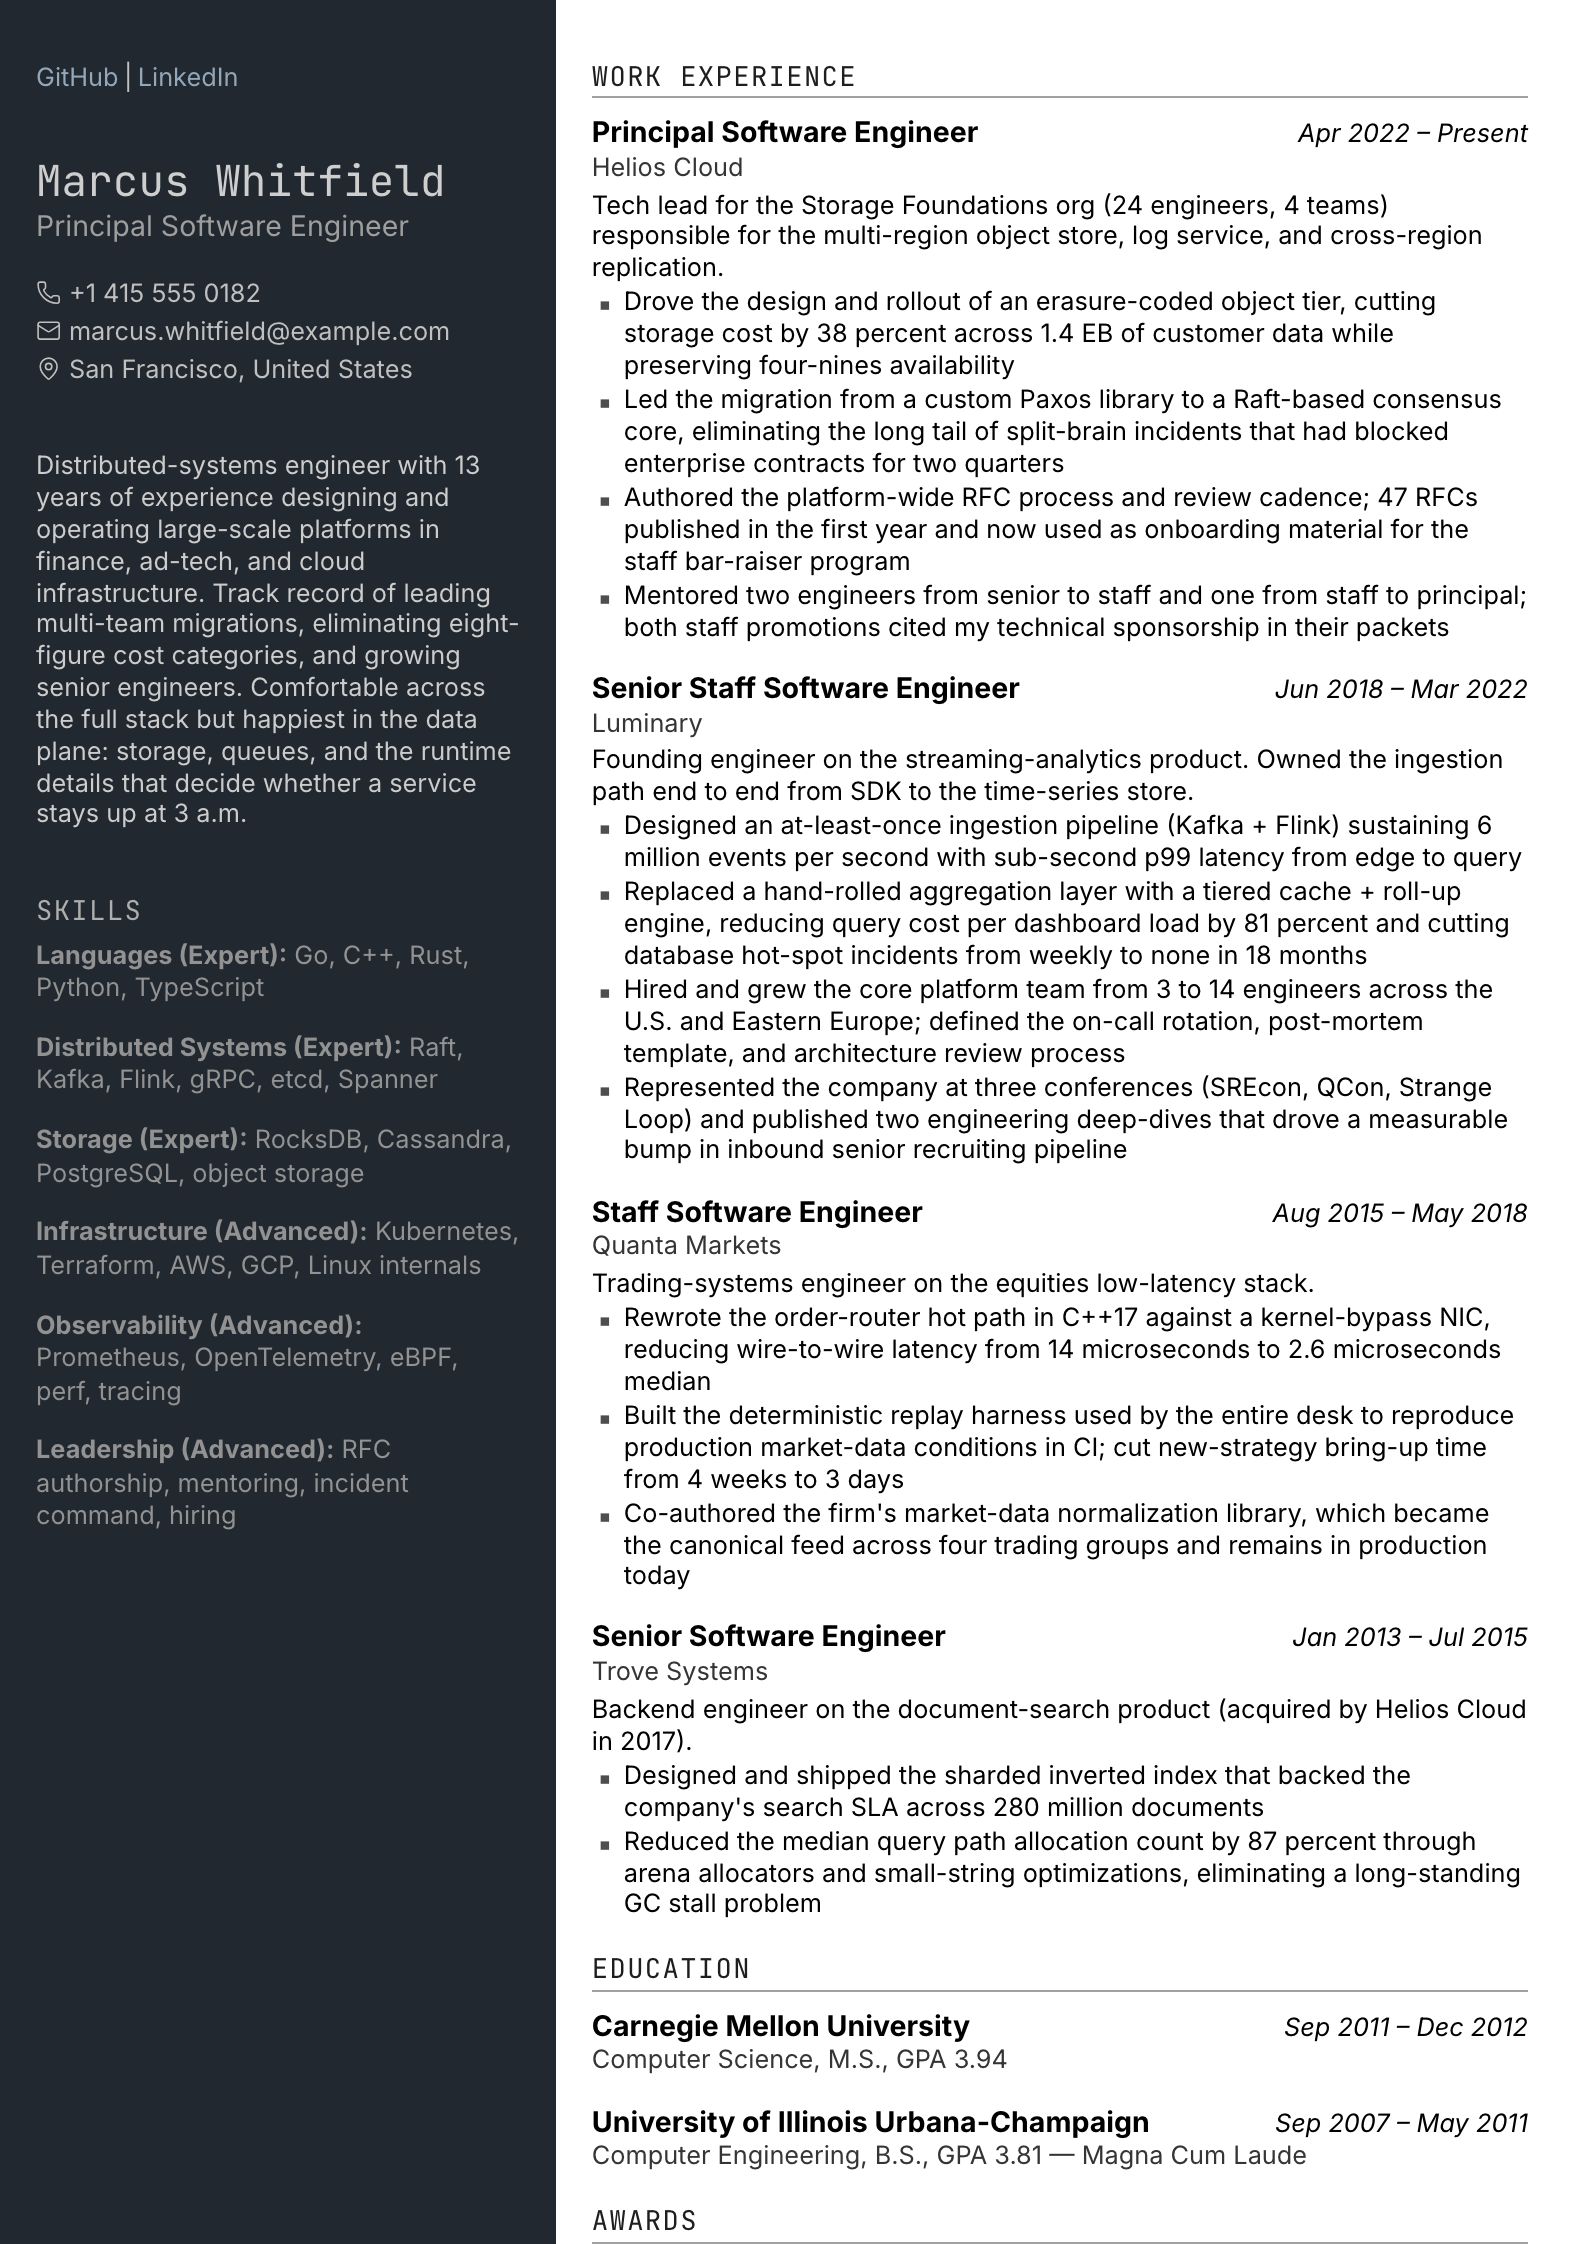
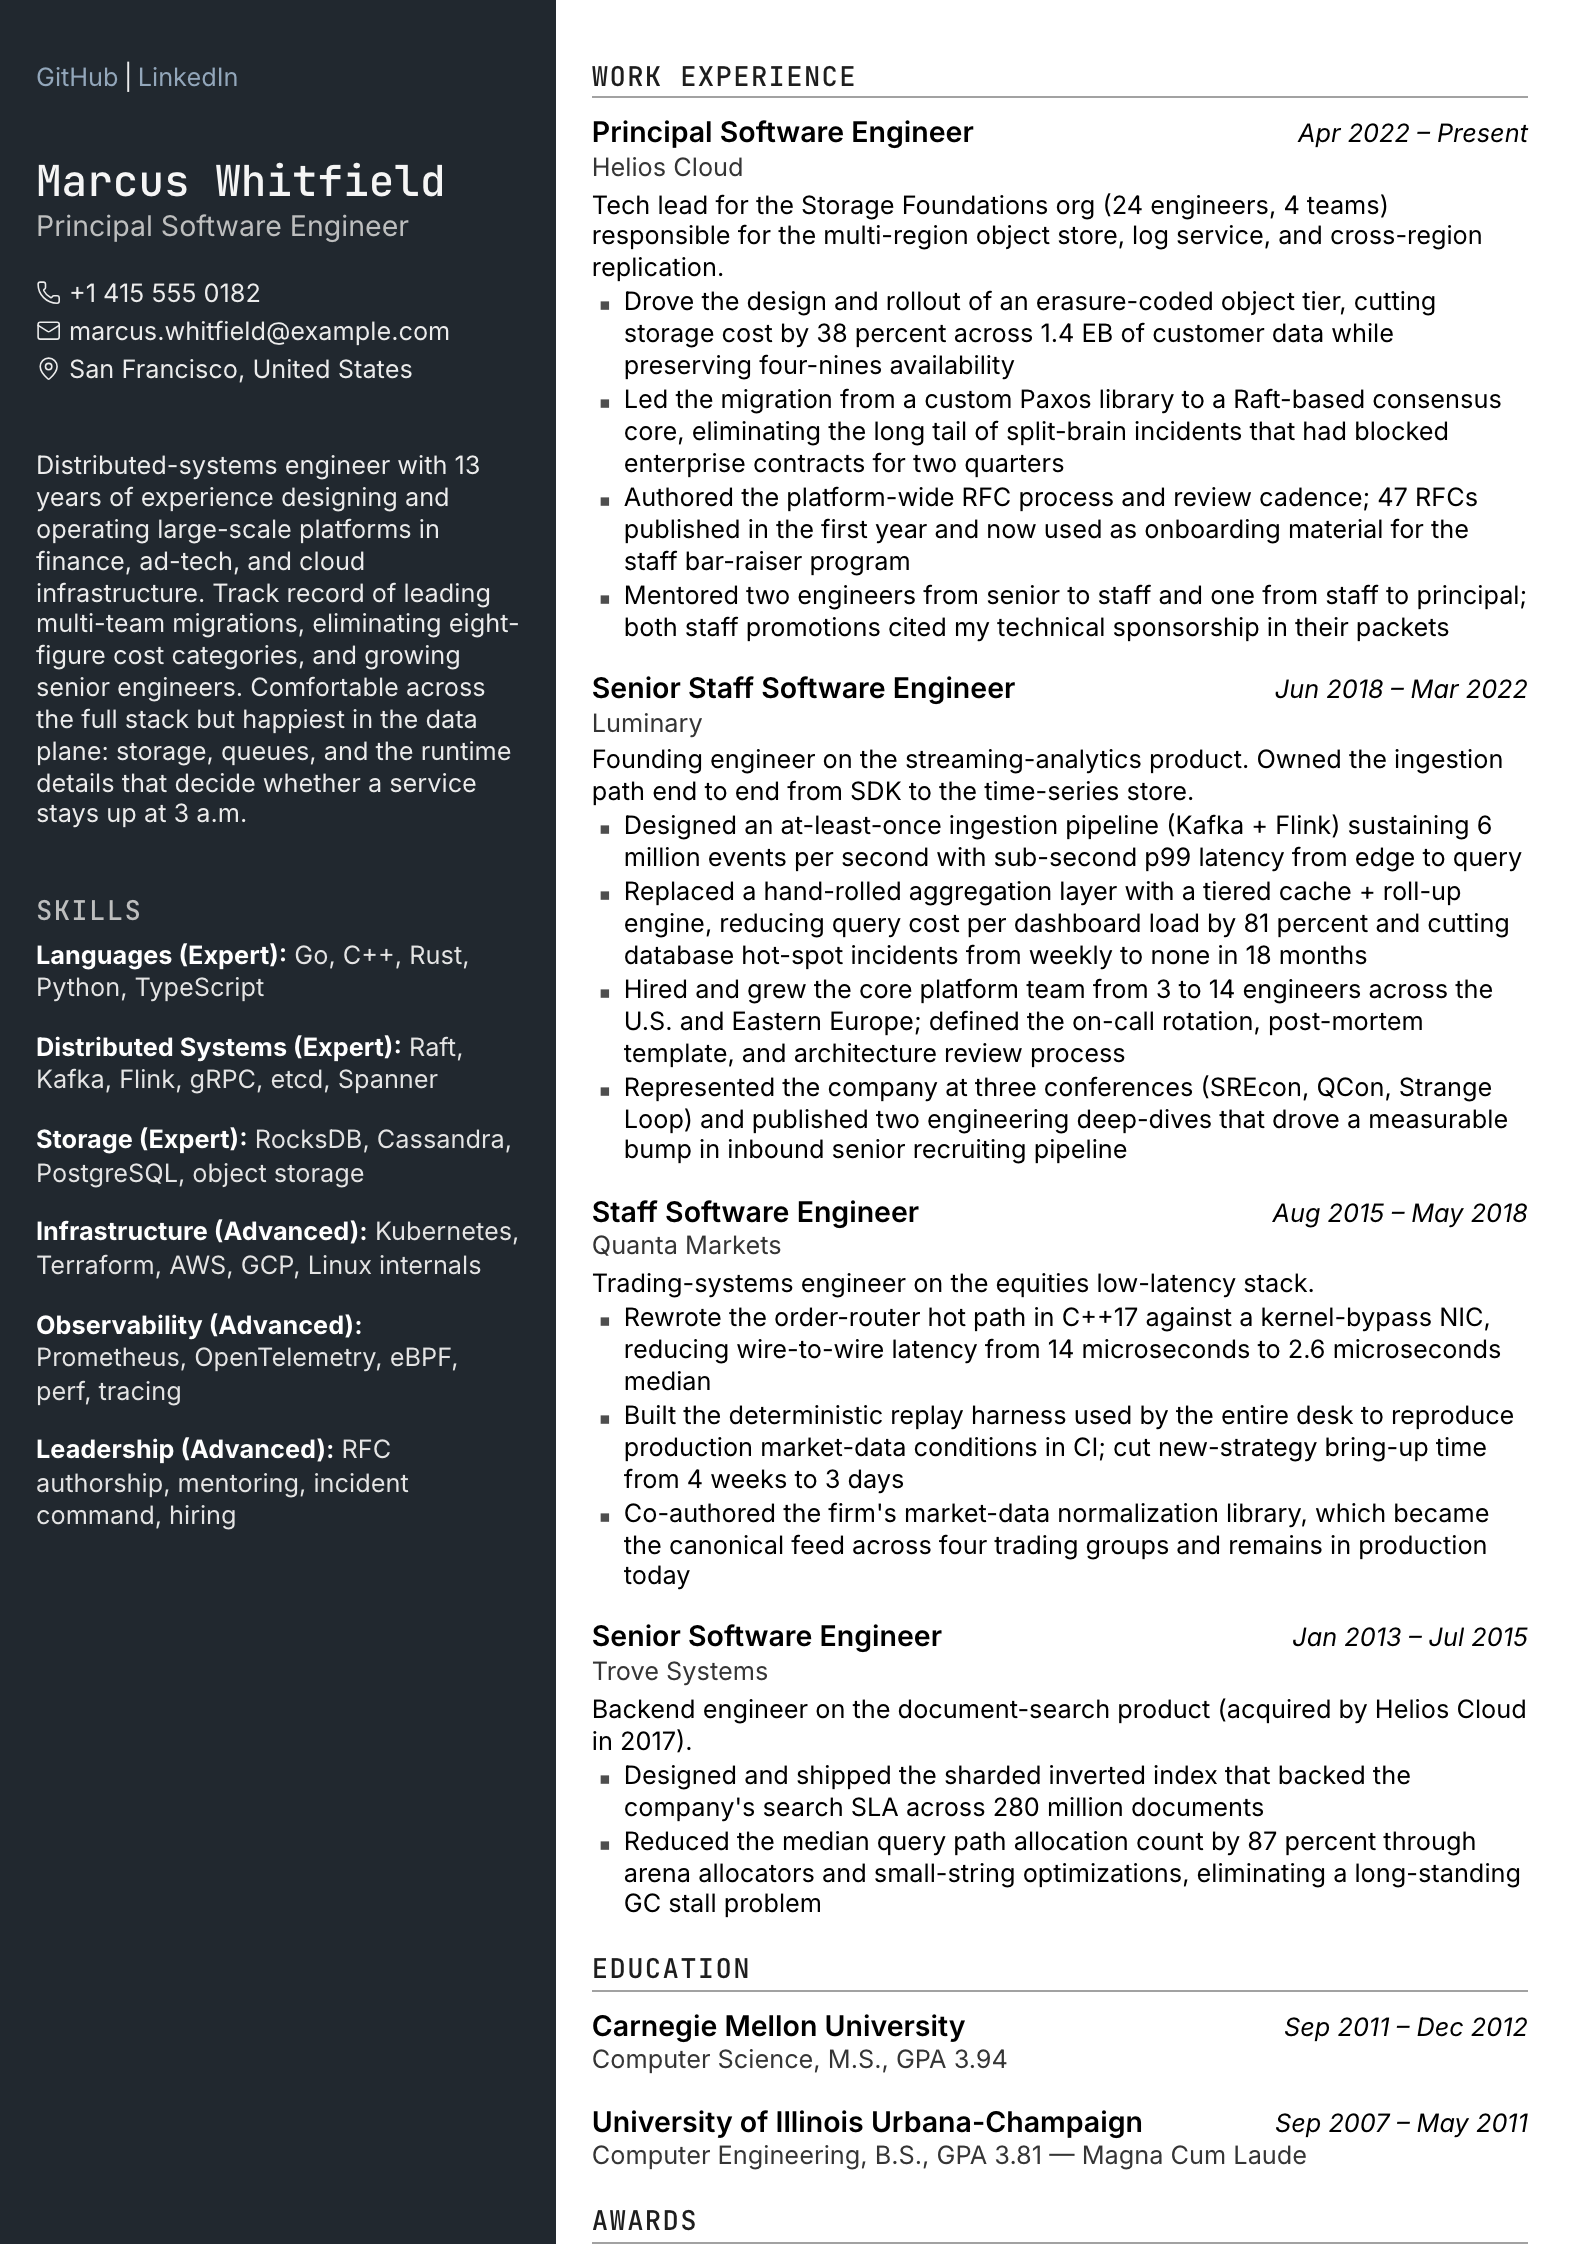
style(rakaposhi): readable sidebar — near-white copy, softer headings
Body copy, keywords, contact and links sit at near-white; group labels
white; section headings and the subtitle one tier softer; proficiency and
reference detail softest. The old scheme had the copy dimmest of all.

diff --git a/templates/rakaposhi/template.css b/templates/rakaposhi/template.css
@@ -71,12 +71,12 @@
    sidebar stack and stay here. */
 .resume[data-template="rakaposhi"] .tk-sidebar .tk-resume-name {
   line-height: 1;
-  color: oklch(from var(--color-page-heading, white) max(0.85, l) calc(c * 0.5) h);
+  color: oklch(from var(--color-page-heading, white) max(0.97, l) calc(c * 0.5) h);
   word-wrap: break-word;
 }
 
 .resume[data-template="rakaposhi"] .tk-sidebar .tk-subtitle {
-  color: oklch(from var(--color-page-subheading, #b0b0b0) max(0.7, l) calc(c * 0.6) h);
+  color: oklch(from var(--color-page-subheading, #b0b0b0) max(0.8, l) calc(c * 0.6) h);
   margin: 0;
   margin-bottom: var(--space-section-gap, 12pt);
 }
@@ -87,7 +87,7 @@
   justify-content: var(--header-align, left);
   font-size: var(--size-body);
   line-height: 1.4;
-  color: #c0c0c0;
+  color: #ececec;
   margin-bottom: calc(var(--space-section-gap, 12pt) * 2);
 }
 
@@ -114,7 +114,7 @@
 .resume[data-template="rakaposhi"] .tk-sidebar .tk-links {
   font-size: var(--size-body);
   line-height: 1.4;
-  color: #c0c0c0;
+  color: #ececec;
   text-align: var(--header-align, left);
   margin-bottom: calc(var(--space-section-gap, 12pt) * 2);
 }
@@ -139,7 +139,7 @@
    one global leaf, so a per-scope exception can only be a literal here. */
 .resume[data-template="rakaposhi"] .tk-sidebar .tk-section-heading {
   font-weight: var(--weight-section-heading, 600);
-  color: oklch(from var(--color-section-heading, #c0c0c0) max(0.75, l) calc(c * 0.6) h);
+  color: oklch(from var(--color-section-heading, #c0c0c0) max(0.8, l) calc(c * 0.6) h);
   border: none;
   padding-bottom: 0;
   margin-bottom: 4pt;
@@ -149,24 +149,32 @@
 /* ── Sidebar — content ───────────────────────────────────────────── */
 
 .resume[data-template="rakaposhi"] .tk-sidebar .tk-section-content {
-  color: oklch(from var(--color-body, #a8a8a8) max(0.66, l) calc(c * 0.6) h);
+  color: oklch(from var(--color-body, #a8a8a8) max(0.92, l) calc(c * 0.6) h);
   margin-bottom: calc(var(--space-section-gap, 12pt) * 2);
 }
 
 .resume[data-template="rakaposhi"] .tk-sidebar .tk-section-content[data-section-type="summary"] {
-  color: #cccccc;
+  color: #ececec;
 }
 
 .resume[data-template="rakaposhi"] .tk-sidebar .tk-rich-text a {
   color: var(--sidebar-link);
 }
 
+/* Readability on the dark sheet: body copy, keywords and group labels sit at
+   near-white; section headings and the subtitle one tier softer; proficiency
+   and reference detail softest. Labels are the one thing brighter than the
+   copy they introduce. */
+.resume[data-template="rakaposhi"] .tk-sidebar .tk-tag-group-name {
+  color: #ffffff;
+}
+
 .resume[data-template="rakaposhi"] .tk-sidebar .language-item {
-  color: #c0c0c0;
+  color: #ececec;
 }
 
 .resume[data-template="rakaposhi"] .tk-sidebar .language-proficiency {
-  color: #888888;
+  color: #a8a8a8;
 }
 
 /* References default to `main`, but the user may move one into the aside
@@ -176,7 +184,7 @@
 }
 
 .resume[data-template="rakaposhi"] .tk-sidebar .tk-reference-detail {
-  color: #999999;
+  color: #a8a8a8;
 }
 
 /* ── Main column — section headings ──────────────────────────────── */
